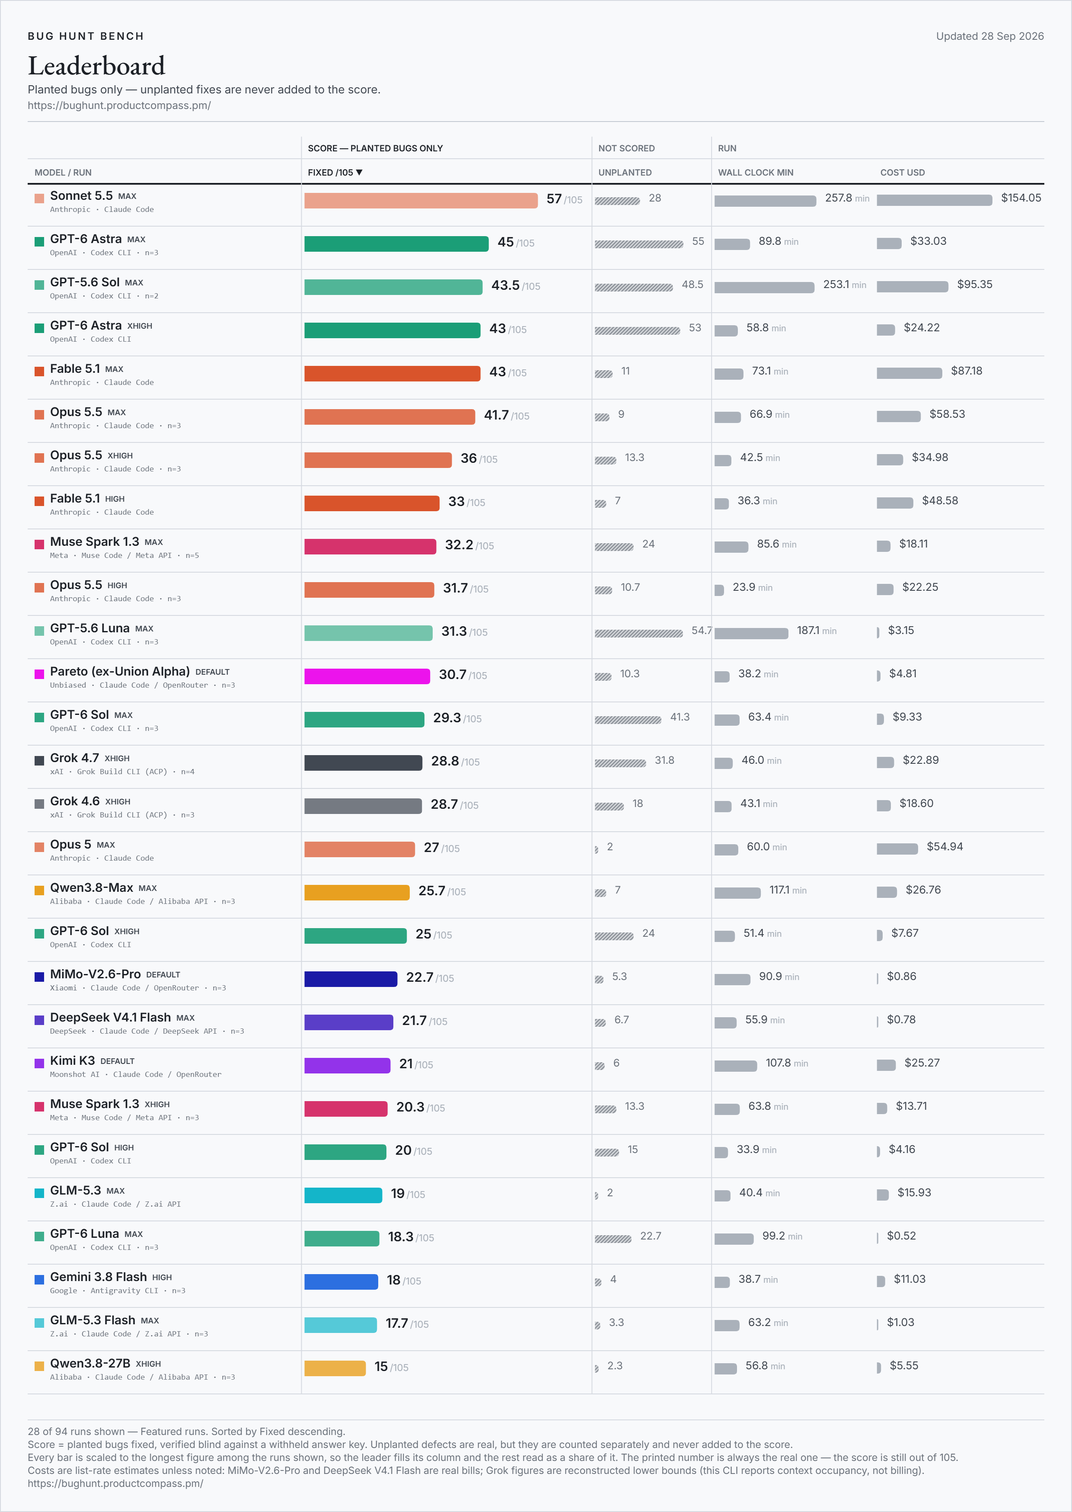
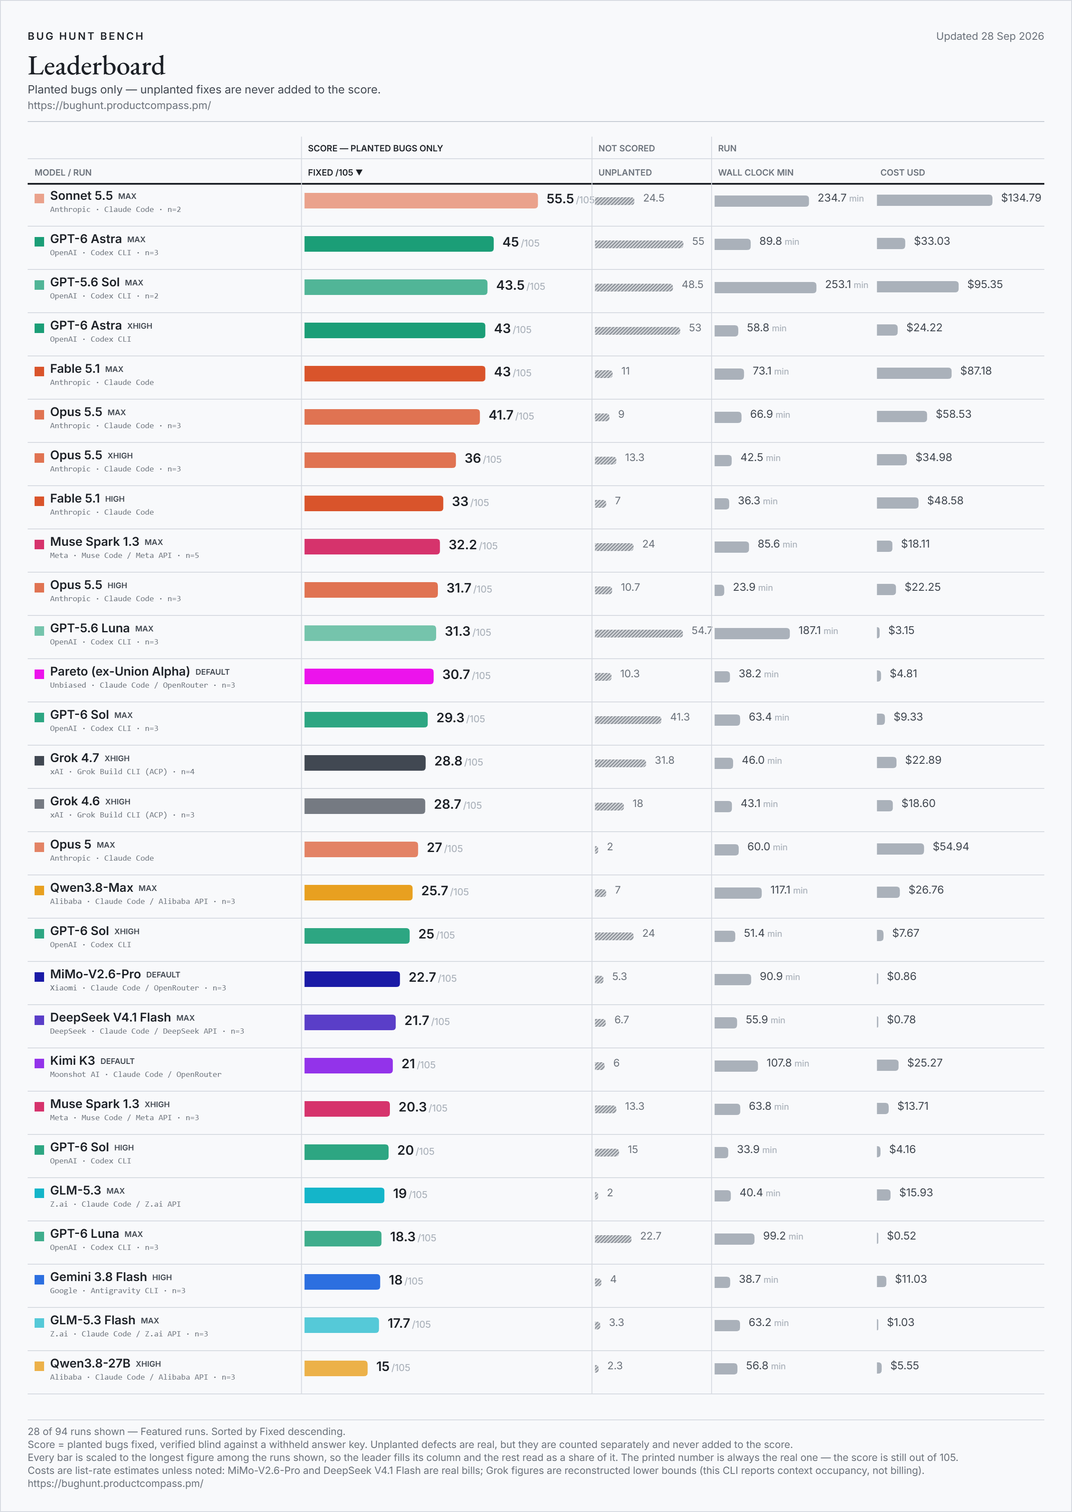
bug hunt bench: Sonnet 5.5 (max effort) - mean of 2 (55.5/105)

diff --git a/index.html b/index.html
@@ -22,14 +22,14 @@
 <meta property="og:title" content="Bug Hunt Bench — frontier coding models against real planted bugs">
 <meta property="og:description" content="A blind-graded benchmark of frontier coding models on real bugs planted in two production codebases. The score counts planted bugs only; extra fixes are tracked separately and never added.">
 <meta property="og:url" content="https://bughunt.productcompass.pm/">
-<meta property="og:image" content="https://bughunt.productcompass.pm/og-image.png?v=2026-09-28-efb95e2d">
+<meta property="og:image" content="https://bughunt.productcompass.pm/og-image.png?v=2026-09-28-c92c4c04">
 <meta property="og:image:width" content="1200">
 <meta property="og:image:height" content="630">
 <meta property="og:image:alt" content="Bug Hunt Bench leaderboard">
 <meta name="twitter:card" content="summary_large_image">
 <meta name="twitter:title" content="Bug Hunt Bench — frontier coding models against real planted bugs">
 <meta name="twitter:description" content="A blind-graded benchmark of frontier coding models on real bugs planted in two production codebases. The score counts planted bugs only.">
-<meta name="twitter:image" content="https://bughunt.productcompass.pm/og-image.png?v=2026-09-28-efb95e2d">
+<meta name="twitter:image" content="https://bughunt.productcompass.pm/og-image.png?v=2026-09-28-c92c4c04">
 <meta name="twitter:creator" content="@PawelHuryn">
 
 <link rel="icon" href="/assets/favicon.svg" type="image/svg+xml">

diff --git a/method.html b/method.html
@@ -20,14 +20,14 @@
 <meta property="og:title" content="Method, caveats and definitions — Bug Hunt Bench">
 <meta property="og:description" content="How Bug Hunt Bench is run and graded, what the board cannot tell you, and what every column on it means.">
 <meta property="og:url" content="https://bughunt.productcompass.pm/method">
-<meta property="og:image" content="https://bughunt.productcompass.pm/og-image.png?v=2026-09-28-efb95e2d">
+<meta property="og:image" content="https://bughunt.productcompass.pm/og-image.png?v=2026-09-28-c92c4c04">
 <meta property="og:image:width" content="1200">
 <meta property="og:image:height" content="630">
 <meta property="og:image:alt" content="Bug Hunt Bench leaderboard">
 <meta name="twitter:card" content="summary_large_image">
 <meta name="twitter:title" content="Method, caveats and definitions — Bug Hunt Bench">
 <meta name="twitter:description" content="How Bug Hunt Bench is run and graded, what the board cannot tell you, and what every column on it means.">
-<meta name="twitter:image" content="https://bughunt.productcompass.pm/og-image.png?v=2026-09-28-efb95e2d">
+<meta name="twitter:image" content="https://bughunt.productcompass.pm/og-image.png?v=2026-09-28-c92c4c04">
 <meta name="twitter:creator" content="@PawelHuryn">
 
 <link rel="icon" href="/assets/favicon.svg" type="image/svg+xml">

diff --git a/results/run-notes.md b/results/run-notes.md
@@ -2,15 +2,15 @@
 
 Every row on the board, with the note and caveat it carries. Generated from `data/benchmark.json` by `bench_golive.py` - do not edit by hand.
 
-Updated Sep 28, 2026 · 145 rows from 222 scored runs. Superseded rows are listed last.
+Updated Sep 28, 2026 · 146 rows from 224 scored runs. Superseded rows are listed last.
 
-## Sonnet 5.5 (max effort)
+## Sonnet 5.5 (max effort) - mean of 2
 
-**57 / 105** · repo 1 24/45 · repo 2 33/60 · 28 unplanted · 257.8 min · $154.05 · `max` · Claude Code · single run · 2026-09-28
+**55.5 / 105** · repo 1 22.5/45 · repo 2 33/60 · 24.5 unplanted · 234.7 min · $134.79 · `max` · Claude Code · mean of 2 runs · 2026-09-28
 
-**Caveat.** ONE RUN, not a mean - this board has measured a 13-point spread between two runs of a single identical configuration, so treat this as one draw until the two replicates land. Both Sonnet 5 rows here compacted mid-task on older CLI builds, so the gap against them is not a clean version comparison. Cost is a list-rate estimate at Sonnet 5.5's published rates; the harness priced this model on another model's table, so the check is on token counts, not on its dollar figure. The machine was idle for every leg.
+**Caveat.** Two runs of an identical configuration scoring 57 and 54 of 105 - spread 3. Read the mean with that width, and note that two runs bound variance poorly - the third is still to come. Both Sonnet 5 rows here compacted mid-task on older CLI builds, so the gap against them is not a clean version comparison. Cost is a list-rate estimate at Sonnet 5.5's published rates; the harness priced this model on another model's table, so the check is on token counts, not on its dollar figure. The machine was idle for every leg.
 
-Anthropic's Sonnet 5.5 at max effort through Claude Code on the first-party API, measured the evening it shipped. 57 of 105: 24 of 45 on repo 1 and 33 of 60 on repo 2, 28 genuine extras, 257.8 minutes, $154.05. ONE RUN so far; two replicates follow and will supersede this row. For comparison the board currently publishes Sonnet 5 at max effort 9, Sonnet 5 at high effort 9, Opus 5.5 at max effort 41.7 (mean of 3) of 105. *** IT KEEPS WORKING AFTER IT WRITES ITS REPORT *** On repo 1 it took 915 turns (the harness's own count); it first wrote its report 66 minutes in and its last model call came at minute 196 - 129 minutes of further checking and revising after the report existed. For scale: Opus 5.5 at max took 159-201 turns there over three runs of 26-37 minutes; Sonnet 5 at max took 207, and every one of those runs wrote its report within 1 minute of its last call. On repo 2 it took 651 turns (the harness's own count); it first wrote its report 57 minutes in and its last model call came at minute 62 - 5 minutes of further checking and revising after the report existed. For scale: Opus 5.5 at max took 264-317 turns there over three runs of 34-39 minutes; Sonnet 5 at max took 204, and every one of those runs wrote its report within 1 minute of its last call. Its own repo-1 report says each fix carries a regression test that it confirmed fails with the fix reverted - a mutation check - which is where the extra turns went. *** SAME MACHINE AS THE OPUS 5.5 LADDER *** configured byte-identical to the opus55* arms except the model slug and the effort flag: Claude Code straight onto Anthropic's first-party API, no proxy, 1M window requested with the [1m] suffix, CLI-default autocompact, same prompt, same timeout class, same blind judge. The two Sonnet 5 rows on this board ran older Claude Code builds (2.1.218, 2.1.267) and compacted mid-task - 5 compactions across their 4 legs, peaks 284,197 to 295,210 tokens - so a gap against them mixes the model version with how much of each run's context survived, and is not a clean version delta. Effort is a first-party Claude Code tier (documented enum low|medium|high|xhigh|max, enforced: an invented tier is answered 'Unknown --effort value'), taken at face value like every other Claude row here. The harness stated init.model claude-sonnet-5-5[1m] on every leg - the [1m] suffix honoured, so this is a 1M-window run - on Claude Code 2.1.283. Peak context 1,001,140 tokens; 3 compactions across 2 legs. Autocompact ran at the CLI default. *** COST IS A LIST ESTIMATE *** token counts at Anthropic's published Sonnet 5.5 rates (as read 2026-09-28): $2 input, $10 output, $0.20 cache read, $4 cache write - the 1-hour rate, which is what this harness writes. The harness's own cost figure is NOT a cross-check on this model: Claude Code reported its cost basis for Sonnet 5.5 as 'unknown' and priced the run on Opus 5.5's table - its figure is exactly those tokens at Opus 5.5 rates, about a fifth higher than Sonnet 5.5's own. So the check here is on tokens: each leg's metered counts agree with the harness's own per-model counts within 3 per cent. Claude Code on a subscription exposes no invoice, hence `list`. *** RECEIPTS *** All legs exited 0 with a report written, run SEQUENTIALLY, one repo at a time. Judge: blind Codex gpt-5.5 - an OpenAI model scoring an Anthropic one, so neither the model itself nor a sibling of it. The repo 2 judge returned an empty verdict set once and was re-run - the re-run is the scored result. The machine was otherwise idle for every leg, so the wall figures compare directly against other uncontended rows.
+Anthropic's Sonnet 5.5 at max effort through Claude Code on the first-party API, published as the MEAN OF TWO INDEPENDENT RUNS. Runs scored 57 and 54 of 105 (repo 1: 24, 21 - repo 2: 33, 33). Mean 55.5, range 3. *** THIS SUPERSEDES SONNET 5.5 (MAX EFFORT) (57 OF 105) *** *** THE REPLICATES ARE BYTE-IDENTICAL TO THE FIRST RUN *** same model string, effort, timeout, price table and blind judge; only the arm name differs, so the spread is run-to-run variance. For comparison the board currently publishes Sonnet 5 at max effort 9, Sonnet 5 at high effort 9, Opus 5.5 at max effort 41.7 (mean of 3) of 105. *** WALL AND COST *** walls 257.8, 211.7 minutes, mean 234.8; cost $154.05, $115.55, mean $134.80. *** GENUINE EXTRAS *** 28 and 21 across the runs, mean 24.5, never folded into the score. *** IT KEEPS WORKING AFTER IT WRITES ITS REPORT *** On repo 1 it took 915, 539 turns (the harness's own count); it first wrote its report 66, 58 minutes in and its last model call came at minute 196, 113 - 129, 55 minutes of further checking and revising after the report existed. For scale: Opus 5.5 at max took 159-201 turns there over three runs of 26-37 minutes; Sonnet 5 at max took 207, and every one of those runs wrote its report within 1 minute of its last call. On repo 2 it took 651, 554 turns (the harness's own count); it first wrote its report 57, 49 minutes in and its last model call came at minute 62, 98 - 5, 49 minutes of further checking and revising after the report existed. For scale: Opus 5.5 at max took 264-317 turns there over three runs of 34-39 minutes; Sonnet 5 at max took 204, and every one of those runs wrote its report within 1 minute of its last call. Its own repo-1 report says each fix carries a regression test that it confirmed fails with the fix reverted - a mutation check - which is where the extra turns went. *** SAME MACHINE AS THE OPUS 5.5 LADDER *** configured byte-identical to the opus55* arms except the model slug and the effort flag: Claude Code straight onto Anthropic's first-party API, no proxy, 1M window requested with the [1m] suffix, CLI-default autocompact, same prompt, same timeout class, same blind judge. The two Sonnet 5 rows on this board ran older Claude Code builds (2.1.218, 2.1.267) and compacted mid-task - 5 compactions across their 4 legs, peaks 284,197 to 295,210 tokens - so a gap against them mixes the model version with how much of each run's context survived, and is not a clean version delta. Effort is a first-party Claude Code tier (documented enum low|medium|high|xhigh|max, enforced: an invented tier is answered 'Unknown --effort value'), taken at face value like every other Claude row here. The harness stated init.model claude-sonnet-5-5[1m] on every leg - the [1m] suffix honoured, so this is a 1M-window run - on Claude Code 2.1.283. Peak context 1,003,561 tokens; 5 compactions across 4 legs. Autocompact ran at the CLI default. *** COST IS A LIST ESTIMATE *** token counts at Anthropic's published Sonnet 5.5 rates (as read 2026-09-28): $2 input, $10 output, $0.20 cache read, $4 cache write - the 1-hour rate, which is what this harness writes. The harness's own cost figure is NOT a cross-check on this model: Claude Code reported its cost basis for Sonnet 5.5 as 'unknown' and priced the run on Opus 5.5's table - its figure is exactly those tokens at Opus 5.5 rates, about a fifth higher than Sonnet 5.5's own. So the check here is on tokens: each leg's metered counts agree with the harness's own per-model counts within 3 per cent. Claude Code on a subscription exposes no invoice, hence `list`. *** RECEIPTS *** All legs exited 0 with a report written, run SEQUENTIALLY, one repo at a time. Judge: blind Codex gpt-5.5 - an OpenAI model scoring an Anthropic one, so neither the model itself nor a sibling of it. The repo 2 judge on run 1 returned an empty verdict set once and was re-run - the re-run is the scored result. The machine was otherwise idle for every leg, so the wall figures compare directly against other uncontended rows.
 
 ## GPT-6 Astra (max effort) - mean of 3
 
@@ -629,6 +629,16 @@ THE ZERO SURVIVES REPLICATION, AND SO DOES THE REPORT-WRITING FAILURE. Runs scor
 **Caveat.** Every figure on this row is a MEAN of three runs; at 0.0 of 105 on all six legs the mean, range and floor are the same number - this CONFIRMS the single run rather than averaging around it. This row SUPERSEDES the single-run row (0/105) published 2026-09-12. One of the six legs (abhb r2) is a genuine EMPTY run (no diff, no report, runner-confirmed healthy environment) scored without a judge call; one (gbvb r3) has no report file and was judged on its diff directly (status=completed override); the remaining four wrote a normal report and were judged on it. effort_status stays inert_default for the same reason as the n=1 row: the arm sends no --effort flag and OpenRouter drops the field, so what runs is Groq's own undeclared default. Regime check: CANNOT TELL on both repos - this OpenRouter route reports no context/compaction accounting, so replication harness-parity is unverified rather than verified.
 
 THE ZERO SURVIVES REPLICATION. Runs scored 0, 0 and 0 of 105 (repo 1: 0, 0, 0 - repo 2: 0, 0, 0). Mean 0.0, range 0. All six legs (three runs, two repos) matched zero of the 105 planted bugs, confirming the single run published 2026-09-12. *** THREE DIFFERENT WAYS A LEG CAN PRODUCE A ZERO, ALL PRESENT IN THIS REPLICATION *** repo 1's r3 leg is the sibling model's failure mode: one real Edit call, cleanly terminal_reason=completed, BUGS_FOUND.md printed into the transcript instead of written, judged on the diff directly (status=completed override, same method the gpt-oss-120b legs used) and the diff did not match a planted bug. repo 2's r2 leg is the OTHER kind of zero this board already named on the n=1 note: no diff, no report, a runner-confirmed healthy environment - the model decided there was nothing to fix and stopped, an EMPTY leg rather than an incomplete one, scored 0 without a judge call at all. The other four legs (both n=1 runs, gbvb r2, abhb r3) wrote a normal report and were judged on it in the ordinary way, also landing at zero. Three different failure shapes - stopped early with nothing, stopped early with an unreported real edit, and a normal report with nothing in it - all converge on the same number. *** REGIME: CANNOT TELL *** same as the gpt-oss-120b row and every other OpenRouter-routed replicate on this board: this route carries no Claude Code-native context accounting, so the usual regime check is unverified rather than verified. Per-leg receipts (repo 1 / repo 2): wall 0.94/2.91, 0.67/13.02 and 2.11/2.60 minutes; cost 0.0278/0.0799, 0.0162/0.1095 and 0.0905/0.0349 dollars - all six REAL OpenRouter credits-delta bills. Combined mean cost across all six legs: $0.11. One wall figure stands out (abhb r2, 13.02 minutes against a same-repo range of 2.60-2.91 for the other two runs) but the leg is an EMPTY leg - a longer deliberation before stopping with nothing to show for it, not a stuck one - flagged rather than explained, same discipline as the contended-wall note on the Qwen3.8-27B mean. BILLING: real OpenRouter bill (credits-delta), matching the n=1 row - not a list-rate estimate.
+
+## Sonnet 5.5 (max effort)
+
+**57 / 105** · repo 1 24/45 · repo 2 33/60 · 28 unplanted · 257.8 min · $154.05 · `max` · Claude Code · single run · 2026-09-28
+
+**Superseded.** Superseded 2026-09-28 by the mean of 2 (55.5 of 105). This row reported 57 of 105 from a single run. The replicates are byte-identical re-runs; across 2 the runs span 54 to 57. Nothing here is retracted - it is kept as the receipt for what the board showed before the extra run.
+
+**Caveat.** ONE RUN, not a mean - this board has measured a 13-point spread between two runs of a single identical configuration, so treat this as one draw until the two replicates land. Both Sonnet 5 rows here compacted mid-task on older CLI builds, so the gap against them is not a clean version comparison. Cost is a list-rate estimate at Sonnet 5.5's published rates; the harness priced this model on another model's table, so the check is on token counts, not on its dollar figure. The machine was idle for every leg.
+
+Anthropic's Sonnet 5.5 at max effort through Claude Code on the first-party API, measured the evening it shipped. 57 of 105: 24 of 45 on repo 1 and 33 of 60 on repo 2, 28 genuine extras, 257.8 minutes, $154.05. ONE RUN so far; two replicates follow and will supersede this row. For comparison the board currently publishes Sonnet 5 at max effort 9, Sonnet 5 at high effort 9, Opus 5.5 at max effort 41.7 (mean of 3) of 105. *** IT KEEPS WORKING AFTER IT WRITES ITS REPORT *** On repo 1 it took 915 turns (the harness's own count); it first wrote its report 66 minutes in and its last model call came at minute 196 - 129 minutes of further checking and revising after the report existed. For scale: Opus 5.5 at max took 159-201 turns there over three runs of 26-37 minutes; Sonnet 5 at max took 207, and every one of those runs wrote its report within 1 minute of its last call. On repo 2 it took 651 turns (the harness's own count); it first wrote its report 57 minutes in and its last model call came at minute 62 - 5 minutes of further checking and revising after the report existed. For scale: Opus 5.5 at max took 264-317 turns there over three runs of 34-39 minutes; Sonnet 5 at max took 204, and every one of those runs wrote its report within 1 minute of its last call. Its own repo-1 report says each fix carries a regression test that it confirmed fails with the fix reverted - a mutation check - which is where the extra turns went. *** SAME MACHINE AS THE OPUS 5.5 LADDER *** configured byte-identical to the opus55* arms except the model slug and the effort flag: Claude Code straight onto Anthropic's first-party API, no proxy, 1M window requested with the [1m] suffix, CLI-default autocompact, same prompt, same timeout class, same blind judge. The two Sonnet 5 rows on this board ran older Claude Code builds (2.1.218, 2.1.267) and compacted mid-task - 5 compactions across their 4 legs, peaks 284,197 to 295,210 tokens - so a gap against them mixes the model version with how much of each run's context survived, and is not a clean version delta. Effort is a first-party Claude Code tier (documented enum low|medium|high|xhigh|max, enforced: an invented tier is answered 'Unknown --effort value'), taken at face value like every other Claude row here. The harness stated init.model claude-sonnet-5-5[1m] on every leg - the [1m] suffix honoured, so this is a 1M-window run - on Claude Code 2.1.283. Peak context 1,001,140 tokens; 3 compactions across 2 legs. Autocompact ran at the CLI default. *** COST IS A LIST ESTIMATE *** token counts at Anthropic's published Sonnet 5.5 rates (as read 2026-09-28): $2 input, $10 output, $0.20 cache read, $4 cache write - the 1-hour rate, which is what this harness writes. The harness's own cost figure is NOT a cross-check on this model: Claude Code reported its cost basis for Sonnet 5.5 as 'unknown' and priced the run on Opus 5.5's table - its figure is exactly those tokens at Opus 5.5 rates, about a fifth higher than Sonnet 5.5's own. So the check here is on tokens: each leg's metered counts agree with the harness's own per-model counts within 3 per cent. Claude Code on a subscription exposes no invoice, hence `list`. *** RECEIPTS *** All legs exited 0 with a report written, run SEQUENTIALLY, one repo at a time. Judge: blind Codex gpt-5.5 - an OpenAI model scoring an Anthropic one, so neither the model itself nor a sibling of it. The repo 2 judge returned an empty verdict set once and was re-run - the re-run is the scored result. The machine was otherwise idle for every leg, so the wall figures compare directly against other uncontended rows.
 
 ## GPT-6 Astra (max effort)
 

diff --git a/README.md b/README.md
@@ -7,17 +7,17 @@
 If the numbers save you a benchmark run of your own, **star this repo** — that is what keeps the bench findable, and new models are added as they ship.
 
 <!-- leaderboard:start -->
-![Bug Hunt Bench leaderboard, the featured runs, updated Sep 28, 2026](assets/leaderboard.png?v=2026-09-28-f462c2fe)
+![Bug Hunt Bench leaderboard, the featured runs, updated Sep 28, 2026](assets/leaderboard.png?v=2026-09-28-4914df6d)
 
-**Updated Sep 28, 2026 · 145 rows from 222 scored runs · 39 models · 30 of 105 bugs have never been fixed by any model.**
+**Updated Sep 28, 2026 · 146 rows from 224 scored runs · 39 models · 29 of 105 bugs have never been fixed by any model.**
 
-**Current leader:** Sonnet 5.5 at `max` effort — **57 / 105** (24/45 on repo 1, 33/60 on repo 2).
+**Current leader:** Sonnet 5.5 at `max` effort — **55.5 / 105** (22.5/45 on repo 1, 33/60 on repo 2).
 
-**Best per lab:** Anthropic: Sonnet 5.5 (`max`) 57 · OpenAI: GPT-6 Astra (`max`) 45 · Meta: Muse Spark 1.3 (`max`) 32.2 · Unbiased: Pareto (ex-Union Alpha) (`default`) 30.7 · xAI: Grok 4.7 (`xhigh`) 28.8 · Alibaba: Qwen3.8-Flash (`max`) 26 · Xiaomi: MiMo-V2.6-Flash (`default`) 23.3 · Google: Gemini 3.7 Flash (`high`) 22 · DeepSeek: DeepSeek V4.1 Flash (`max`) 21.7 · Moonshot AI: Kimi K3 (`default`) 21 · Z.ai: GLM-5.3 (`max`) 19 · Tencent: Hy4 Preview (`default`) 18
+**Best per lab:** Anthropic: Sonnet 5.5 (`max`) 55.5 · OpenAI: GPT-6 Astra (`max`) 45 · Meta: Muse Spark 1.3 (`max`) 32.2 · Unbiased: Pareto (ex-Union Alpha) (`default`) 30.7 · xAI: Grok 4.7 (`xhigh`) 28.8 · Alibaba: Qwen3.8-Flash (`max`) 26 · Xiaomi: MiMo-V2.6-Flash (`default`) 23.3 · Google: Gemini 3.7 Flash (`high`) 22 · DeepSeek: DeepSeek V4.1 Flash (`max`) 21.7 · Moonshot AI: Kimi K3 (`default`) 21 · Z.ai: GLM-5.3 (`max`) 19 · Tencent: Hy4 Preview (`default`) 18
 
 | # | Model | Harness | Effort | Runs | Fixed /105 | Repo 1 /45 | Repo 2 /60 | Extras | Wall | Cost | Date |
 |--:|---|---|---|--:|--:|--:|--:|--:|--:|--:|---|
-| 1 | Sonnet 5.5 | Claude Code | max | 1 | **57** | 24 | 33 | 28 | 258 min | $154.05 | 2026-09-28 |
+| 1 | Sonnet 5.5 | Claude Code | max | 2 | **55.5** | 22.5 | 33 | 24.5 | 235 min | $134.79 | 2026-09-28 |
 | 2 | GPT-6 Astra | Codex CLI | max | 3 | **45** | 22 | 23 | 55 | 90 min | $33.03 | 2026-09-14 |
 | 3 | GPT-5.6 Sol | Codex CLI | max | 2 | **43.5** | 19 | 24.5 | 48.5 | 253 min | $95.35 | 2026-09-16 |
 | 4 | GPT-6 Astra | Codex CLI | xhigh | 1 | **43** | 23 | 20 | 53 | 59 min | $24.22 | 2026-09-04 |
@@ -117,7 +117,7 @@ If the numbers save you a benchmark run of your own, **star this repo** — that
 Extras are real, unplanted defects a model fixed on the way; they are counted and never added to the score. Costs are token estimates at published list rates unless tagged **bill** (an actual invoice or credits delta) or **floor** (a reconstructed lower bound). `default` effort means the serving path had no working effort dial; *ran lower* marks a run whose CLI quietly replaced the requested tier. Wall clock is repo 1 plus repo 2 agent time, dependency install excluded.
 Every row's full note, caveat and supersession history is in [results/run-notes.md](https://github.com/phuryn/bug-hunt-bench/blob/main/results/run-notes.md); the runs behind each one are in the metrics CSVs.
 
-51 superseded re-runs stay in the CSVs and on the [live board](https://bughunt.productcompass.pm/?preset=all) but are left off this table.
+52 superseded re-runs stay in the CSVs and on the [live board](https://bughunt.productcompass.pm/?preset=all) but are left off this table.
 <!-- leaderboard:end -->
 
 ## What Bug Hunt Bench is

diff --git a/results/waves.md b/results/waves.md
@@ -3768,3 +3768,4 @@ Anthropic's Sonnet 5.5 went on the board the evening it shipped, through Claude 
 |---|---|---|---|---|---|---|---|
 | Sonnet 5.5 (max effort) | 1 | **57** / 105 | 24 / 45 | 33 / 60 | 28 | 257.8 min | $154.05 |
 | Sonnet 5.5 (xhigh effort) | 1 | **39** / 105 | 18 / 45 | 21 / 60 | 19 | 122.4 min | $60.30 |
+| Sonnet 5.5 (max effort) - mean of 2 | mean of 2 | **55.5** / 105 | 22.5 / 45 | 33 / 60 | 24.5 | 234.8 min | $134.80 |
